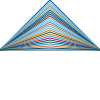
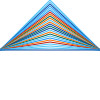
Deploying to gh-pages from  @ 3b6154152891d2dd727ef395fe4494077d414b22 🚀

Changed region(s): [[0.0, 0.0, 1.0, 0.51]]

diff --git a/index.html b/index.html
@@ -7,7 +7,7 @@
       <link rel="stylesheet" href="style.css" />
     </head>
     <body class="overview">
-      <a href="solutions/016/Moongirl1207/index.html"><img src="016-moongirl1207.png" src="016-moongirl1207" /></a><a href="solutions/040/ELOYVANTIEGHEM/index.html"><img src="040-eloyvantieghem.png" src="040-eloyvantieghem" /></a><a href="solutions/001/wouterverweirder/index.html"><img src="001-wouterverweirder.png" src="001-wouterverweirder" /></a><a href="solutions/001/amants/index.html"><img src="001-amants.png" src="001-amants" /></a><a href="solutions/002/SimonVanherweghe/index.html"><img src="002-simonvanherweghe.png" src="002-simonvanherweghe" /></a><a href="solutions/015/wouterverweirder/index.html"><img src="015-wouterverweirder.png" src="015-wouterverweirder" /></a><a href="solutions/029/JariDhaenens/index.html"><img src="029-jaridhaenens.png" src="029-jaridhaenens" /></a><a href="solutions/030/YarlVanOnckelen/index.html"><img src="030-yarlvanonckelen.png" src="030-yarlvanonckelen" /></a><a href="solutions/025/lukasdebeerst/index.html"><img src="025-lukasdebeerst.png" src="025-lukasdebeerst" /></a><a href="solutions/005/SarahVanDenBerghe/index.html"><img src="005-sarahvandenberghe.png" src="005-sarahvandenberghe" /></a><a href="solutions/032/PepijnDejonckheere/index.html"><img src="032-pepijndejonckheere.png" src="032-pepijndejonckheere" /></a><a href="solutions/006/amants/index.html"><img src="006-amants.png" src="006-amants" /></a><a href="solutions/016/JariDhaenens/index.html"><img src="016-jaridhaenens.png" src="016-jaridhaenens" /></a><a href="solutions/027/larsmarginet/index.html"><img src="027-larsmarginet.png" src="027-larsmarginet" /></a><a href="solutions/026/RobinVandenBerghe/index.html"><img src="026-robinvandenberghe.png" src="026-robinvandenberghe" /></a><a href="solutions/030/JasperVermeulen/index.html"><img src="030-jaspervermeulen.png" src="030-jaspervermeulen" /></a><a href="solutions/021/alieseechaute/index.html"><img src="021-alieseechaute.png" src="021-alieseechaute" /></a><a href="solutions/033/Moongirl1207/index.html"><img src="033-moongirl1207.png" src="033-moongirl1207" /></a><a href="solutions/028/ellensierens/index.html"><img src="028-ellensierens.png" src="028-ellensierens" /></a><a href="solutions/028/cielbrys/index.html"><img src="028-cielbrys.png" src="028-cielbrys" /></a><a href="solutions/015/gilkevermander/index.html"><img src="015-gilkevermander.png" src="015-gilkevermander" /></a><a href="solutions/035/liencard/index.html"><img src="035-liencard.png" src="035-liencard" /></a><a href="solutions/004/SimonVanherweghe/index.html"><img src="004-simonvanherweghe.png" src="004-simonvanherweghe" /></a><a href="solutions/002/amants/index.html"><img src="002-amants.png" src="002-amants" /></a><a href="solutions/036/vanessabloes/index.html"><img src="036-vanessabloes.png" src="036-vanessabloes" /></a><a href="solutions/003/amants/index.html"><img src="003-amants.png" src="003-amants" /></a>
+      <a href="solutions/028/ellensierens/index.html"><img src="028-ellensierens.png" src="028-ellensierens" /></a><a href="solutions/004/SimonVanherweghe/index.html"><img src="004-simonvanherweghe.png" src="004-simonvanherweghe" /></a><a href="solutions/006/amants/index.html"><img src="006-amants.png" src="006-amants" /></a><a href="solutions/030/JasperVermeulen/index.html"><img src="030-jaspervermeulen.png" src="030-jaspervermeulen" /></a><a href="solutions/026/RobinVandenBerghe/index.html"><img src="026-robinvandenberghe.png" src="026-robinvandenberghe" /></a><a href="solutions/002/amants/index.html"><img src="002-amants.png" src="002-amants" /></a><a href="solutions/028/cielbrys/index.html"><img src="028-cielbrys.png" src="028-cielbrys" /></a><a href="solutions/016/Moongirl1207/index.html"><img src="016-moongirl1207.png" src="016-moongirl1207" /></a><a href="solutions/005/SarahVanDenBerghe/index.html"><img src="005-sarahvandenberghe.png" src="005-sarahvandenberghe" /></a><a href="solutions/035/liencard/index.html"><img src="035-liencard.png" src="035-liencard" /></a><a href="solutions/027/larsmarginet/index.html"><img src="027-larsmarginet.png" src="027-larsmarginet" /></a><a href="solutions/001/amants/index.html"><img src="001-amants.png" src="001-amants" /></a><a href="solutions/029/JariDhaenens/index.html"><img src="029-jaridhaenens.png" src="029-jaridhaenens" /></a><a href="solutions/021/alieseechaute/index.html"><img src="021-alieseechaute.png" src="021-alieseechaute" /></a><a href="solutions/002/SimonVanherweghe/index.html"><img src="002-simonvanherweghe.png" src="002-simonvanherweghe" /></a><a href="solutions/025/lukasdebeerst/index.html"><img src="025-lukasdebeerst.png" src="025-lukasdebeerst" /></a><a href="solutions/030/YarlVanOnckelen/index.html"><img src="030-yarlvanonckelen.png" src="030-yarlvanonckelen" /></a><a href="solutions/015/wouterverweirder/index.html"><img src="015-wouterverweirder.png" src="015-wouterverweirder" /></a><a href="solutions/033/Moongirl1207/index.html"><img src="033-moongirl1207.png" src="033-moongirl1207" /></a><a href="solutions/001/wouterverweirder/index.html"><img src="001-wouterverweirder.png" src="001-wouterverweirder" /></a><a href="solutions/040/ELOYVANTIEGHEM/index.html"><img src="040-eloyvantieghem.png" src="040-eloyvantieghem" /></a><a href="solutions/003/amants/index.html"><img src="003-amants.png" src="003-amants" /></a><a href="solutions/016/JariDhaenens/index.html"><img src="016-jaridhaenens.png" src="016-jaridhaenens" /></a><a href="solutions/015/gilkevermander/index.html"><img src="015-gilkevermander.png" src="015-gilkevermander" /></a><a href="solutions/036/vanessabloes/index.html"><img src="036-vanessabloes.png" src="036-vanessabloes" /></a><a href="solutions/032/PepijnDejonckheere/index.html"><img src="032-pepijndejonckheere.png" src="032-pepijndejonckheere" /></a>
     </body>
   </html>
   

diff --git a/solutions/021/alieseechaute/solution.js b/solutions/021/alieseechaute/solution.js
@@ -6,11 +6,11 @@ function arc(ctx, x, y, width, height, radius, color) {
 }
 
 const draw = function (ctx) {
-  arc(ctx, 10, 10, 4, 5, 10, "#0d47a1")
-  arc(ctx, 30, 10, 4, 5, 10, "#ef6c00")
-  arc(ctx, 20, 20, 4, 5, 10, "#b71c1c")
-  arc(ctx, 10, 30, 4, 5, 10, "#2196f3")
-  arc(ctx, 30, 30, 4, 5, 10, "#4fc3f7")
+  arc(ctx, 40, 30, 4, 5, 10, "#0d47a1")
+  arc(ctx, 60, 30, 4, 5, 10, "#ef6c00")
+  arc(ctx, 50, 40, 4, 5, 10, "#b71c1c")
+  arc(ctx, 40, 50, 4, 5, 10, "#2196f3")
+  arc(ctx, 60, 50, 4, 5, 10, "#4fc3f7")
   
   return ctx;
 };
